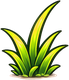
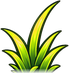
art: WK-182 bumper_block_sq (square studded chrome block, 300x300) + tufts cropped above the baked soil patch (D-F1)

diff --git a/assets/CATALOG.md b/assets/CATALOG.md
@@ -47,12 +47,13 @@ Every non-placeholder asset: what it is, how it was made, status. Prompts matter
 | `world/bumper_post.png` | SHIP-CANDIDATE | 208x1003 vertical 3-slice |
 | `world/bumper_rail.png` | SHIP-CANDIDATE | 2026-11-16 WK-180 B1 horizontal bumper rail, DERIVED from bumper_post.png (no generation, no prompt): PIL `Image.Transpose.TRANSPOSE` (= Godot rotate_90(CLOCKWISE) + flip_x, verified pixel-identical) -> 1003x208, lighting stays top-left (pearl speculars upper-left, cylinder highlight = top band). Draw `ThreeSlice.build(rail, w + 8, h + WALL_FACE_BLEED * 2, 0.20, false)`, no tint. cap 0.20 cuts in the pearl gaps (centre = 5 periods). PREVIEW NOTE: when the tile correction falls outside 0.85-1.20 ThreeSlice takes the CROPPED-partial path, which cuts pearls in half (seen on a 1020x100 rail: n=2 -> k=1.202, n=3 -> k=0.80); ceiling 2900x80 (k 0.98) and 660x80 (k 0.86) are clean. Preview tools/out/wk/WK-180_art_preview.png. AD in-game grade PENDING |
 | `world/bumper_block.png` | SHIP-CANDIDATE | 2026-11-16 WK-180 B2 square hanging-block bumper (brief docs/briefs/wk180_decals_bumpers_2026-11-16.md section 2). 300x249 real alpha (aspect 1.205; brief 7:6): rounded-square chrome cushion, top + bottom rolled bands, recessed panel with a 2x2 grid of the post's white pearl studs + dark socket rings, chocolate outline, no shadow/ground. Draw `ThreeSlice.build_whole(block, w + 8, h + 8)`: 120x110 / 140x120 / 150x120 all fit (drawn 128x118 / 148x128 / 158x128 wpx, no width shortfall). ChatGPT, refs via STA clipboard: bumper_post.png flattened on white + style_north_star.png; prompt = brief B2 verbatim + base style suffix + 'landscape 1536x1024'. v2 of 2 (1 re-roll): v1 (`tools/out/wk/wk180_raw/wk180_bumper_block_v1.png`) was aspect 1.05 and its outline 16 px / 859 px block = ~2.8 wpx at 148 wpx drawn vs the post's ~3.9 wpx (reject: outline thinner than the post's); re-roll text: 'the SAME block with exactly two changes: (1) clearly WIDER than tall, 7 wide by 6 tall ... studs stay perfectly round and the same size; (2) the dark-chocolate outer outline about 1.6x thicker (about 1/32 of the block width), matching the heavy outline on the attached bumper post. Keep everything else identical'. v2 outline 23 px / 1000 px = ~3.4 wpx drawn (post 3.4-4.4 wpx at 50-66 wpx wide). Real alpha (no keyout needed); intake `python -I tools/fx_intake.py <raw> assets/world/bumper_block.png --width 296 --pad 2` (haze clean + defringe + trim + Lanczos), `art.py check` OK. Raw `tools/out/wk/wk180_raw/wk180_bumper_block_v2.png`. Gloss blob sits top-RIGHT on the bands (same as the post's cap); pearls match the post. AD in-game grade PENDING |
+| `world/bumper_block_sq.png` | SHIP-CANDIDATE | 2026-11-16 WK-182 square (1:1) bumper block for 0.85 <= w/h < 1.05 bumpers (audit docs/audit/2026-11-16_wk180_artgrade.md section 4: 70x70, 90x100, 120/130/140/160 squares; replaces the 'stacked donut' post cap-crop). 300x300 real alpha: same chrome cushion as bumper_block (light top band, darker bottom band, recessed panel, 2x2 white pearl studs with dark socket rings, top-left speculars), chocolate outline, no shadow/ground. ChatGPT, GENERATED (accepted roll 1 of max 3), refs via STA clipboard paste: (1) bumper_block.png flattened on white (primary), (2) bumper_post.png flattened on white (padded to 700 px wide: the raw 268x1063 tall strip failed to upload), (3) reference/style_north_star.png. Prompt = 'Create an image. ' + audit section 4 prompt verbatim + arena_rendering base style suffix + 'Square 1024x1024.' Raw 1254x1254 `tools/out/wk/wk180_raw/wk182_bumper_block_sq_v1.png` (opaque bbox aspect 0.984); side-by-side `wk182_sq_v1_vs_block.png`. Reject-criteria check: studs match (white, dark ring, top-left highlight), grid 2x2, no shadow/ground; outline 8 px / 294 px = 0.027 of width vs bumper_block 6.5 / 293 = 0.022 (>=, pass); corner radius 0.227 of side vs bumper_block 0.236 (not pill-rounder, pass). Real alpha so the audit's keyout step was skipped (same as bumper_block v2): `python -I tools/fx_intake.py <raw> <tmp> --maxdim 1200 --pad 0` (haze clean + defringe + trim) -> PIL Lanczos 296x296 (1.6% non-uniform to exact 1:1) -> `fx_intake.py <tmp> assets/world/bumper_block_sq.png --width 296 --pad 2` (re-defringe + pad) = 300x300, `art.py check` OK. Draw `ThreeSlice.build_whole(sq, w + 8, h + 8)`: 70 -> 78, 90x100 -> 98x108 (sx inside the 0.9-1.1 fudge), 120 -> 128 ... 160 -> 168 wpx. Preview `tools/out/wk/WK-182_art_preview.png` (script `tools/out/wk/wk180_raw/wk182_preview.py`). NOT wired (programmer: aspect routing per audit section 4). AD in-game grade PENDING |
 | `world/trampoline_blue.png` | prop | standalone trampoline prop (NOT the tier mat) |
 | `bg/sky_grass_day.png` | SHIP-CANDIDATE | 1672x941 opaque, layer-1 sky |
 | `bg/hills_far.png` | SHIP-CANDIDATE | 1536x222 strip, transparent top, layer 2 |
 | `bg/cloud_a.png` | SHIP-CANDIDATE | 854x515 soft, no outline, layer 3 |
 | `world/grass/decals/tuft_a.png`, `flower_white.png` | SHIP-CANDIDATE | scatter decals |
-| `world/grass/decals/tuft_{a,b}_fit.png`, `flower_white_fit.png` | SHIP-CANDIDATE | 2026-11-16 WK-180 R1 decal prep (originals untouched, copies in tools/out/wk/wk180_raw/). Tufts: HSV hue -10 deg + value x1.25 on px with V > 0.25 (dark outline kept), with a soft shoulder above V 0.86 so highlights do not clip to yellow; non-outline median #7AB111 -> #B6DA13 (A) / #7FAF18 -> #B9D91D (B), hue ~82 -> ~72 deg (the fringe's lime ramp); then `art.py resize` to 69x80. Flower: no recolour, `art.py resize` to 37x44. ~2x the largest display size (tufts 34-40 wpx tall, daisies 18-22 wpx), so mipmaps stay off. `art.py check` flags 'semi-transparent fringe' on all three: expected AA at this size (10-14 % of px, mean RGB dark outline ~#1F2612, not a white halo). Note: the tufts carry a small baked beige ground ellipse at the stem base (~2-3 px tall at 69 px); it sits inside the fringe/rock band (stem base = fringe_bottom + 6). Not wired yet (TUFT_TEXES / FLOWER_TEX -> _fit, programmer) |
+| `world/grass/decals/tuft_{a,b}_fit.png`, `flower_white_fit.png` | SHIP-CANDIDATE | 2026-11-16 WK-180 R1 decal prep (originals untouched, copies in tools/out/wk/wk180_raw/). Tufts: HSV hue -10 deg + value x1.25 on px with V > 0.25 (dark outline kept), with a soft shoulder above V 0.86 so highlights do not clip to yellow; non-outline median #7AB111 -> #B6DA13 (A) / #7FAF18 -> #B9D91D (B), hue ~82 -> ~72 deg (the fringe's lime ramp); then `art.py resize` to 69x80. Flower: no recolour, `art.py resize` to 37x44. ~2x the largest display size (tufts 34-40 wpx tall, daisies 18-22 wpx), so mipmaps stay off. `art.py check` flags 'semi-transparent fringe' on all three: expected AA at this size (10-14 % of px, mean RGB dark outline ~#1F2612, not a white halo). Note: the tufts carry a small baked beige ground ellipse at the stem base (~2-3 px tall at 69 px); it sits inside the fringe/rock band (stem base = fringe_bottom + 6). Not wired yet (TUFT_TEXES / FLOWER_TEX -> _fit, programmer) . 2026-11-16 WK-180 grade D-F1: bottom 7 rows (baked soil patch) cropped + 4-row alpha fade. tuft_{a,b}_fit.png cropped to rows 0-72 (69x80 -> 69x73), alpha of rows 69/70/71/72 x0.8/0.6/0.4/0.2 (PIL); pale px (sat < 0.35, val > 0.55) in the kept rows = 0. Pre-D-F1 copies `tools/out/wk/wk180_raw/tuft_{a,b}_fit_pre_df1.png`. Sprite bottom is still the stem base, so wk180_tuft_base_off 6 still applies. art.py check still flags the expected AA 'semi-transparent fringe' (see above) |
 
 | `powerups/icon_*.png` (x7) | SHIP-CANDIDATE | mega_bounce, unlimited_boost, star, counter_shield, ball_storm, black_hole, ring_of_fire — briefs in docs/specs/v1_powerups.md |
 | `world/spikes_strip.png` | SHIP-CANDIDATE | 987x254 hazard row, repeating |
